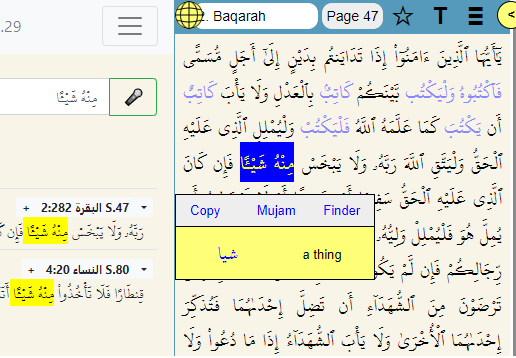
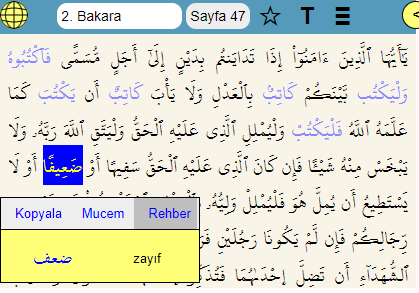
more corrections
* fix Finder_meta.png
* update history.html
* use guideQ.css

diff --git a/guideQ.EN.html b/guideQ.EN.html
@@ -6,34 +6,10 @@
     <meta name="author"      content="M A Eyler, Istanbul, 2025" />
     <meta name="description" content="Help document" />
     <link rel="stylesheet" href="code/main.css" media="all">
+    <link rel="stylesheet" href="code/guideQ.css" media="all">
     <link rel="icon" href="image/icon.png">
     <title>Iqra Help </title>
   </head>
-  <style>
-    iframe {
-      width: clamp(400px, 100%, 560px);
-      aspect-ratio: 16/9;
-    }
-    #contents {
-      position: fixed;
-      right: 8px; top: 8px;
-      text-align: right;
-    }
-    #menu1 {
-      list-style-type: none;
-      margin: 0;
-      padding: 12px;
-      background: honeydew;
-      border: 1px solid;
-    }
-    button { cursor: pointer; }
-    li { margin: 8px 0; }
-    xs { font-size: x-small; }
-@media screen and (min-width: 1100px) {
-    #buton { display: none; }
-    #menu1 { display: block; }
-}
-</style>
   <body>
 
 <h2 id=title>Iqra Qur'an Reader &ndash;  </h2>
@@ -116,7 +92,7 @@ In this image, the page menu is visible, used mainly for external resources.
   <img src="docs.EN/Iqra_dar.png" alt="Iqra dar" /><br>
 In this image, the context menu is shown after two words are selected.
 For the context menu: if there is a mouse, right-click; otherwise long-press the word or touch with two fingers. The selected text is copied to the clipboard or sent to search modules.
-
+</p>
 <h3 id="arama">2. Search methods</h3>
 <p>The software supports three types of search:</p>
 
@@ -131,10 +107,10 @@ For the context menu: if there is a mouse, right-click; otherwise long-press the
 <p>The plain text search in Arabic text or in the Turkish-English translation was presented as a graduation project by Abdurrahman Rajab (Completion in June 2020)</p>
 
 <p>
-  <img src="docs/Finder_meta.png" alt="Rehber">
+  <img src="docs.EN/Finder_meta.png" alt="Rehber">
 </p>
 
-<p>In the Mushaf panel, the word "minhu shay-â" is selected on page 47. From the context menu we can easily switch to the Finder panel. By tapping the verse number or the highlighted text you can return to the Mushaf or switch to external software from the menu.</p>
+<p>In the Mushaf panel, <a href="/Kuran/#p=47&r=ktb" target="iqraTop">the root "ktb"</a> is hilited, and then the word "daîfan" is selected on page 47. From the word menu you can easily switch to the <a href="/Kuran/#b=DEyfA" target="iqraTop">Finder panel</a> to see all 4 occurrences. By tapping the verse number in the Finder, you can return to the Mushaf.</p>
 
 <p>The microphone icon is added for Arabic-Turkish-English voice search.</p>
 
@@ -188,7 +164,7 @@ Start, Finder, Mujam, Topics, Notes, Stars, Book...
 </p>
 <p>If the screen is wide enough, all three panels are shown simultaneously. 
   A laptop will fit two panels, a phone only one.
-  In this case, yellow buttons or screen swiping are used to switch between panels.<p>
+  In this case, yellow buttons or screen swiping are used to switch between panels.</p>
 <br>
 <b>Mujam-Mushaf Transition</b>
 <p><img src="docs/Mucem-Mushaf.png" alt="Mucem-Mushaf" class=large /></p>

diff --git a/guideQ.html b/guideQ.html
@@ -6,34 +6,10 @@
     <meta name="author"      content="M A Eyler, Istanbul, 2019" />
     <meta name="description" content="Help document" />
     <link rel="stylesheet" href="code/main.css" media="all">
+    <link rel="stylesheet" href="code/guideQ.css" media="all">
     <link rel="icon" href="image/icon.png">
     <title>Iqra Yardım </title>
   </head>
-  <style>
-    iframe {
-      width: clamp(400px, 100%, 560px);
-      aspect-ratio: 16/9;
-    }
-    #contents {
-      position: fixed;
-      right: 8px; top: 8px;
-      text-align: right;
-    }
-    #menu1 {
-      list-style-type: none;
-      margin: 0;
-      padding: 12px;
-      background: honeydew;
-      border: 1px solid;
-    }
-    button { cursor: pointer; }
-    li { margin: 8px 0; }
-    xs { font-size: x-small; }
-@media screen and (min-width: 1100px) {
-    #buton { display: none; }
-    #menu1 { display: block; }
-}
-</style>
   <body>
 
 <h2 id=title>Iqra &ndash; Oku </h2>
@@ -116,7 +92,7 @@ Bu resimde, sayfa menüsü ve yanındaki 25. ayette secde işareti görülüyor.
   <img src="docs/Iqra_dar.png" alt="Iqra dar" /><br>
 Bu resimde, iki kelime seçildikten sonra bağlam menüsü görülüyor.
 Bağlam menüsü için: mouse varsa sağ-tıklayın, yoksa kelimeye uzunca basın, ya da iki parmakla dokunun. Seçilen metin panoya kopyalanır ya da arama modüllerine gönderilir.
-
+</p>
 <h3 id="arama">2. Arama yöntemleri</h3>
 <p>Yazılım üç türlü aramayı destekliyor:</p>
 
@@ -134,7 +110,7 @@ Bağlam menüsü için: mouse varsa sağ-tıklayın, yoksa kelimeye uzunca bası
   <img src="docs/Finder_meta.png" alt="Rehber" class=large />
 </p>
 
-<p>Sağdaki Mushaf panelinde 47. sayfada "ktb" <a href="/Kuran/#p=47&r=ktb" target="iqraTop">kökü aranmış</a> ve sonra "minhu şey-â" kelimeleri birlikte seçilmiş. Çıkan kelime menüsünden Rehber paneline kolayca geçebiliriz. Orada ayet numarasına ya da bulunan metne basarak Mushafa dönmek mümkün.</p>
+<p>Sağdaki Mushaf panelinde 47. sayfada "ktb" <a href="/Kuran/#p=47&r=ktb" target="iqraTop">kökü aranmış</a> ve sonra "daîfen" kelimesi seçilmiş. Çıkan kelime menüsünden <a href="/Kuran/#b=DEyfA" target="iqraTop">Rehber paneline</a> kolayca geçilir ve kelimenin geçtiği 4 ayet bulunur. Rehber'de ayet numarasına tıklıyarak Mushafa dönmek mümkün.</p>
 
 <p>Mikrofon simgesi ile sesli arama özelliği eklendi.</p>
 
@@ -188,7 +164,7 @@ Başlangıç, Rehber, Mucem, Konular, Notlar, Yıldızlar, Kitap...
 </p>
 <p>Ekran yeteri kadar geniş ise üç panel aynı anda gösterilir. 
   Diz-üstü bilgisayara iki, telefona yalnız bir panel sığacaktır.
-  Bu durumda, paneller arası geçiş için pembe butonlar ya da ekran kaydırma (swipe) kullanılır.<p>
+  Bu durumda, paneller arası geçiş için pembe butonlar ya da ekran kaydırma (swipe) kullanılır.</p>
 <br>
 <b>Mucem-Mushaf Geçişi</b>
 <p><img src="docs/Mucem-Mushaf.png" alt="Mucem-Mushaf" class=large /></p>

diff --git a/history.html b/history.html
@@ -125,15 +125,14 @@ Bu sürümde yazılımın muhtelif parçaları tek pencerenin farklı panellerin
   <a href="https://okuyun.org" target="iqraTop">okuyun.org</a> (Mart 2021)</p>
   </li>
   <li>
-<p><a href="/Kitap/">V4.2</a> Kitap sayfaları (Ağustos 2021)</p>
+<p>V4.2 <a href="/Kitap/">Kitap sayfaları</a> (Ağustos 2021)</p>
   <img src="docs/iqra V4.2.png" class="large">
   </li>
   <li>
 <p>V4.3 Standart menüler (Kasım 2021)</p>
   </li>
   <li>
-<p><a href="/Kuran/" target="iqraTop">V4.4</a>
-  Dil desteği: EN-TR-AR (Şubat 2022)</p>
+<p>V4.4  Dil desteği: EN-TR-AR (Şubat 2022)</p>
   <img src="docs/iqra V4.4.png" class="large">
   </li>
   <li>
@@ -150,6 +149,9 @@ Bu sürümde yazılımın muhtelif parçaları tek pencerenin farklı panellerin
 <p><a href="/Kuran/" target="iqraTop">V4.8</a>
   Harekesiz ve noktasız Kûfî font, üç yeni dış kaynak (Ağustos 2024)</p>
   <img src="docs/kaynaklar.png" class="large">
+  </li>
+  <li>
+<p>V4.9 Kıraat farkları listesi, Sure menüsü  (Aralık 2024)</p>
   </li>
 </ul>
 

diff --git a/code/guideQ.css b/code/guideQ.css
@@ -1,0 +1,23 @@
+    iframe {
+      width: clamp(400px, 100%, 560px);
+      aspect-ratio: 16/9;
+    }
+    #contents {
+      position: fixed;
+      right: 8px; top: 8px;
+      text-align: right;
+    }
+    #menu1 {
+      list-style-type: none;
+      margin: 0;
+      padding: 12px;
+      background: honeydew;
+      border: 1px solid;
+    }
+    button { cursor: pointer; }
+    li { margin: 8px 0; }
+    xs { font-size: x-small; }
+@media screen and (min-width: 800px) {
+    #buton { display: none; }
+    #menu1 { display: block; }
+}
